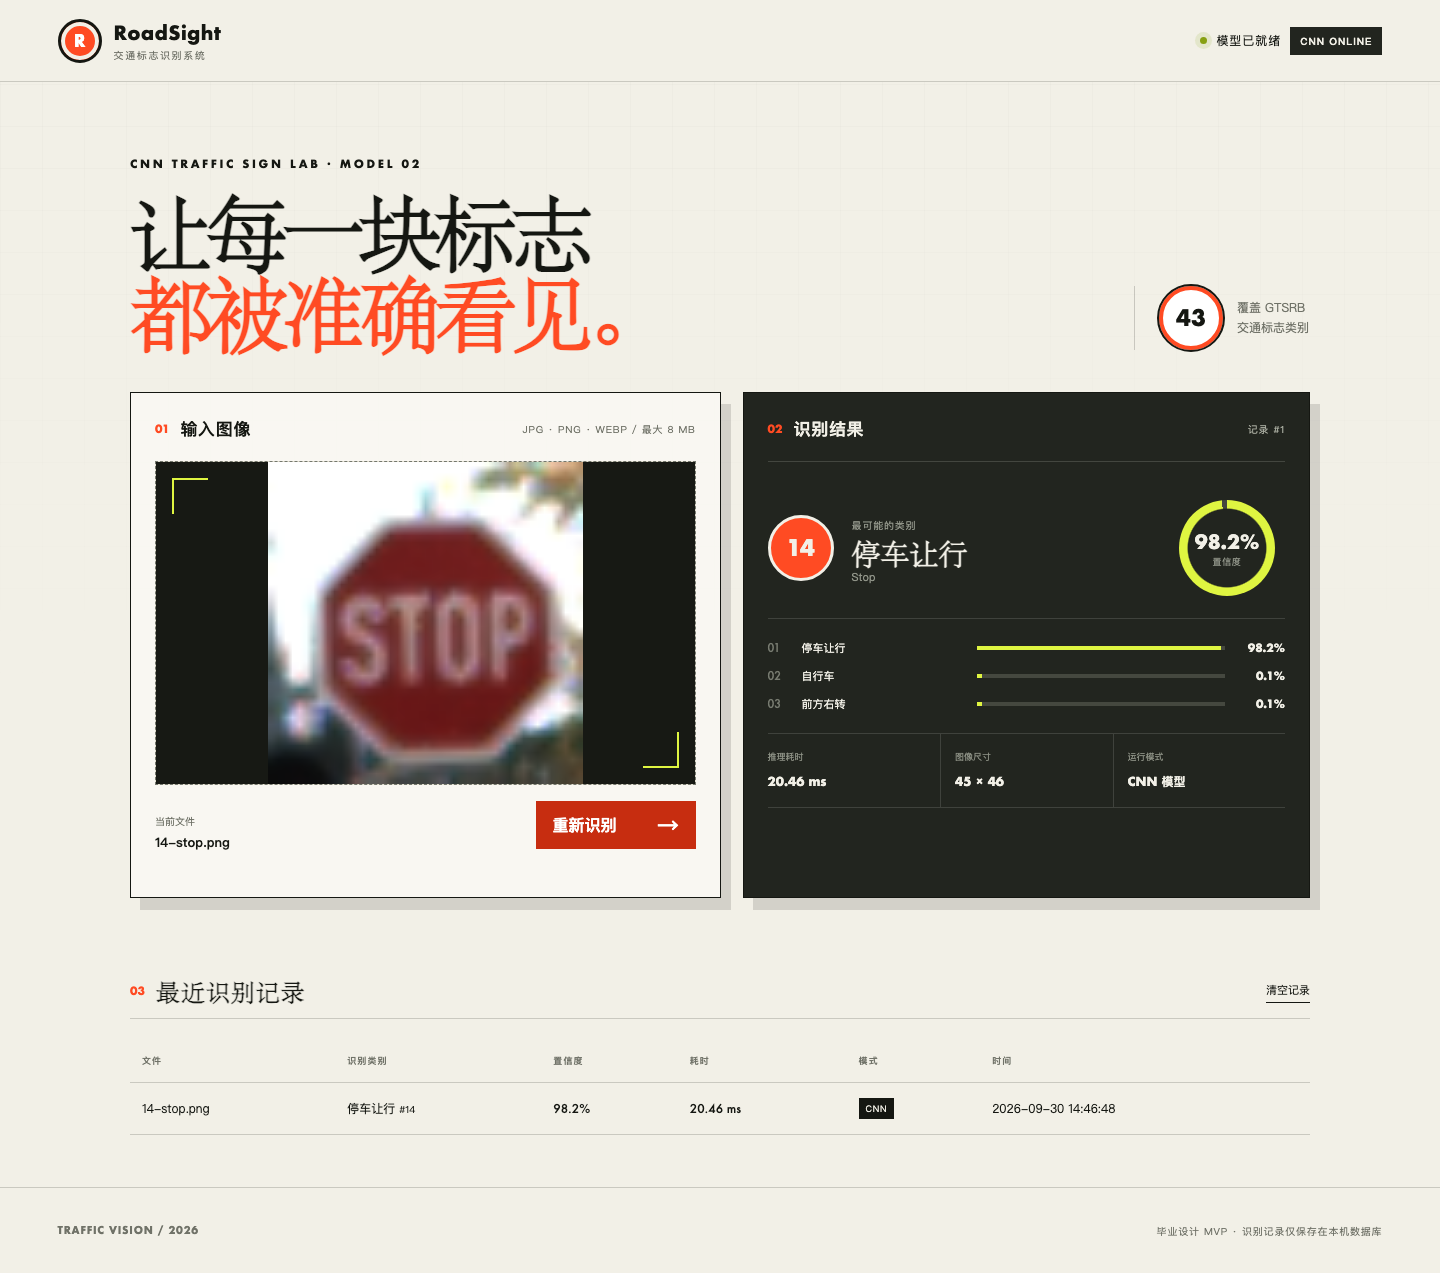
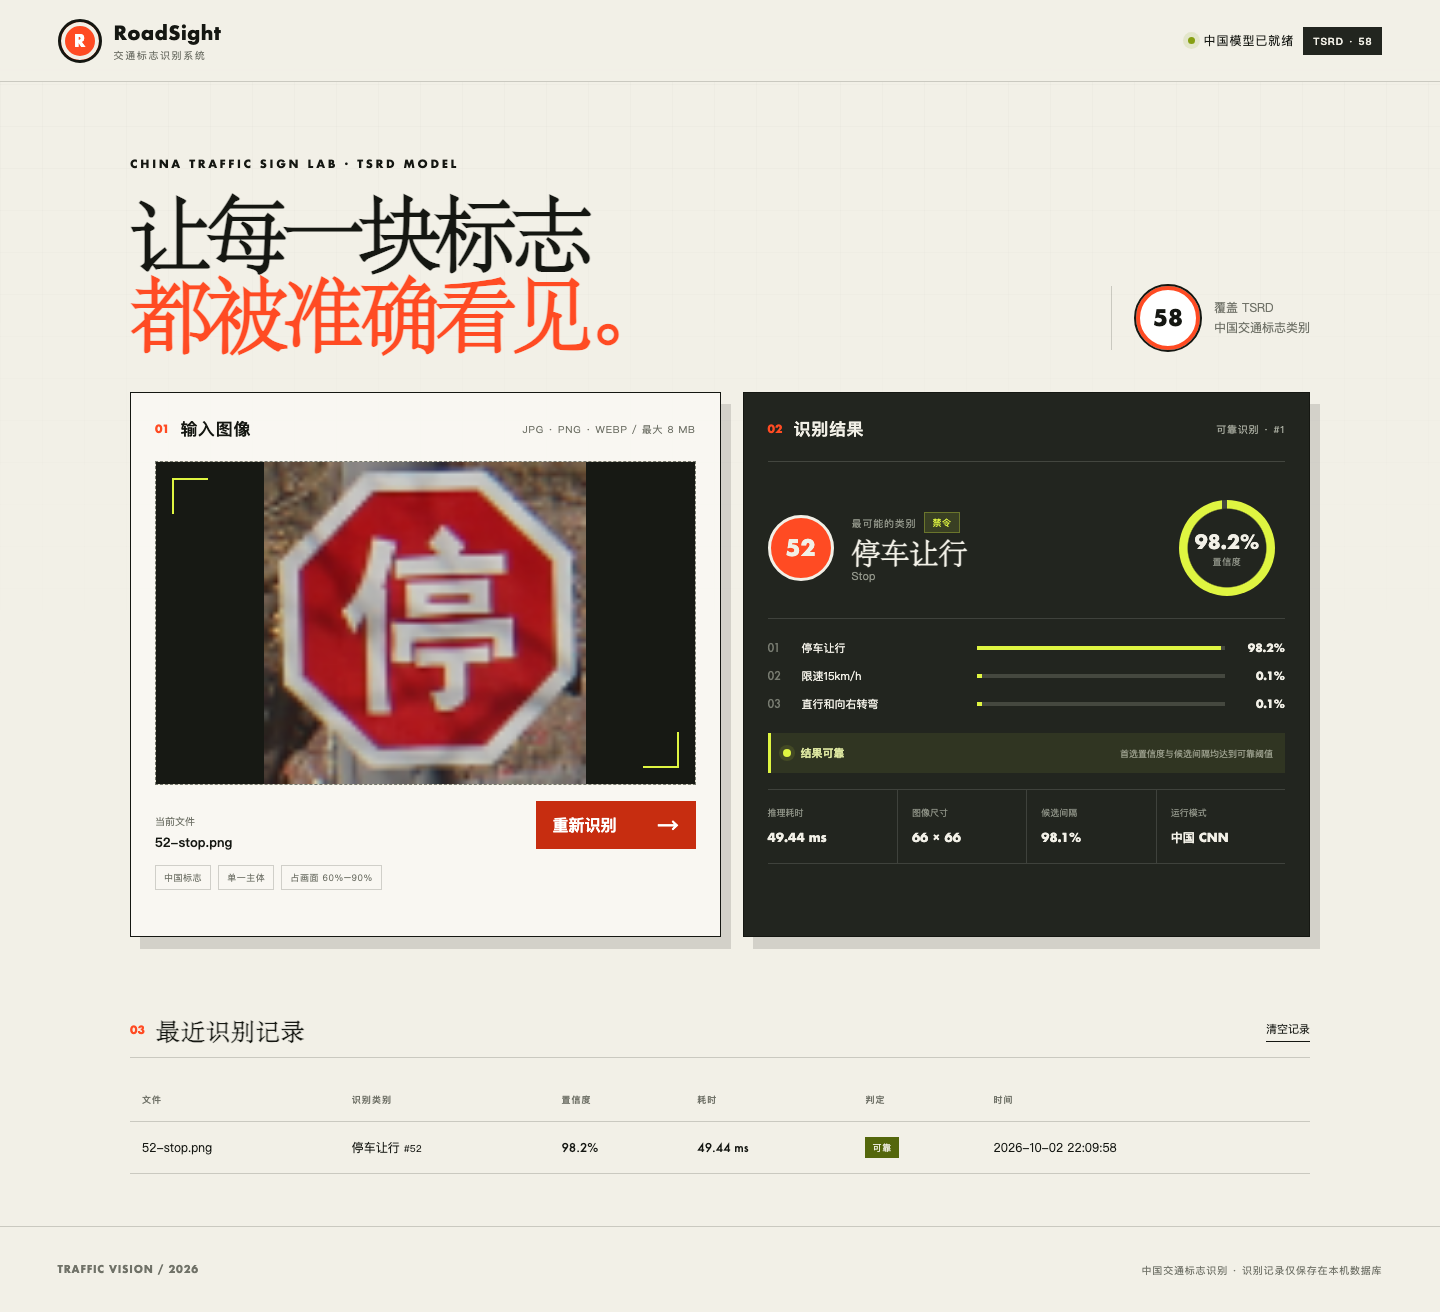
升级中国交通标志识别交互界面

diff --git a/static/styles.css b/static/styles.css
@@ -106,6 +106,8 @@ main { width: min(1180px, calc(100% - 48px)); margin: 0 auto; }
 .file-row { display: flex; align-items: flex-end; justify-content: space-between; gap: 14px; margin-top: 18px; }
 .file-row small { display: block; color: var(--muted); font-size: 10px; margin-bottom: 5px; }
 .file-row strong { display: block; max-width: 260px; overflow: hidden; text-overflow: ellipsis; white-space: nowrap; font-size: 13px; }
+.upload-tips { display: flex; flex-wrap: wrap; gap: 7px; margin-top: 14px; }
+.upload-tips span { border: 1px solid var(--line); padding: 5px 8px; color: var(--muted); font-size: 9px; letter-spacing: .06em; }
 .primary-button { border: 0; background: var(--signal); color: white; min-width: 160px; height: 48px; display: flex; align-items: center; justify-content: space-between; gap: 20px; padding: 0 17px; cursor: pointer; font-weight: 800; transition: background .2s, transform .2s; }
 .primary-button:hover:not(:disabled) { background: var(--signal-dark); transform: translateY(-2px); }
 .primary-button:disabled { opacity: .42; cursor: not-allowed; }
@@ -130,6 +132,8 @@ main { width: min(1180px, calc(100% - 48px)); margin: 0 auto; }
 .winner small { color: #92968a; font-size: 10px; letter-spacing: .08em; }
 .winner h3 { font-family: "STSong", "Songti SC", serif; font-size: 29px; margin: 4px 0 2px; }
 .winner p { margin: 0; color: #92968a; font-size: 11px; }
+.result-meta { display: flex; align-items: center; gap: 8px; }
+.result-meta span { padding: 3px 7px; background: rgba(223,245,65,.12); border: 1px solid rgba(223,245,65,.3); color: var(--acid); font-size: 9px; letter-spacing: .08em; }
 .confidence-ring { --progress: 0deg; width: 96px; height: 96px; border-radius: 50%; display: grid; place-content: center; justify-items: center; background: radial-gradient(circle, var(--asphalt) 57%, transparent 59%), conic-gradient(var(--acid) var(--progress), #44473f 0); }
 .confidence-ring strong { font-family: Futura, sans-serif; font-size: 19px; }
 .confidence-ring small { color: #92968a; font-size: 9px; }
@@ -140,7 +144,13 @@ main { width: min(1180px, calc(100% - 48px)); margin: 0 auto; }
 .bar i { display: block; height: 100%; background: var(--acid); transform-origin: left; animation: grow .7s ease both; }
 @keyframes grow { from { transform: scaleX(0); } }
 .top-item strong { text-align: right; font-family: Futura, sans-serif; font-size: 11px; }
-.metrics { display: grid; grid-template-columns: repeat(3, 1fr); border-top: 1px solid rgba(242,240,231,.14); border-bottom: 1px solid rgba(242,240,231,.14); }
+.decision-strip { display: grid; grid-template-columns: 9px auto 1fr; align-items: center; gap: 9px; padding: 12px; margin-bottom: 16px; color: #dfe9a2; background: rgba(223,245,65,.08); border-left: 3px solid var(--acid); }
+.decision-strip > span { width: 8px; height: 8px; border-radius: 50%; background: var(--acid); box-shadow: 0 0 0 4px rgba(223,245,65,.11); }
+.decision-strip strong { font-size: 11px; white-space: nowrap; }
+.decision-strip small { color: #9da18f; font-size: 9px; text-align: right; }
+.decision-strip.uncertain { color: #ffc1b3; background: rgba(255,75,35,.09); border-color: var(--signal); }
+.decision-strip.uncertain > span { background: var(--signal); box-shadow: 0 0 0 4px rgba(255,75,35,.12); }
+.metrics { display: grid; grid-template-columns: repeat(4, 1fr); border-top: 1px solid rgba(242,240,231,.14); border-bottom: 1px solid rgba(242,240,231,.14); }
 .metrics div { padding: 16px 10px 16px 0; }
 .metrics div + div { padding-left: 14px; border-left: 1px solid rgba(242,240,231,.14); }
 .metrics small { display: block; color: #8e9286; font-size: 9px; margin-bottom: 6px; }
@@ -158,6 +168,8 @@ th { font-size: 9px; color: var(--muted); letter-spacing: .12em; }
 td:nth-child(3), td:nth-child(4) { font-family: Futura, sans-serif; }
 .mode-tag { display: inline-block; padding: 4px 7px; background: var(--ink); color: var(--paper); font-size: 9px; letter-spacing: .08em; }
 .mode-tag.demo { background: var(--signal); }
+.mode-tag.accepted { background: #54670c; }
+.mode-tag.uncertain { background: var(--signal); }
 .history-empty { color: var(--muted); font-size: 12px; padding: 28px 12px; border-bottom: 1px solid var(--line); }
 
 footer { min-height: 86px; padding: 0 max(4vw, 24px); border-top: 1px solid var(--line); display: flex; align-items: center; justify-content: space-between; color: var(--muted); font-size: 10px; letter-spacing: .08em; }
@@ -184,6 +196,11 @@ footer span { font-family: Futura, sans-serif; font-weight: 800; }
   .winner { grid-template-columns: 58px 1fr; }
   .class-code { width: 56px; height: 56px; }
   .confidence-ring { grid-column: 1 / -1; justify-self: end; margin-top: -8px; }
+  .decision-strip { grid-template-columns: 9px 1fr; }
+  .decision-strip small { grid-column: 2; text-align: left; }
+  .metrics { grid-template-columns: repeat(2, 1fr); }
+  .metrics div:nth-child(3) { border-left: 0; border-top: 1px solid rgba(242,240,231,.14); }
+  .metrics div:nth-child(4) { border-top: 1px solid rgba(242,240,231,.14); }
   .top-item { grid-template-columns: 20px 1fr 44px; }
   .top-item .bar { grid-column: 2 / -1; }
   footer { align-items: flex-start; flex-direction: column; justify-content: center; gap: 7px; }

diff --git a/static/index.html b/static/index.html
@@ -3,8 +3,8 @@
   <head>
     <meta charset="UTF-8" />
     <meta name="viewport" content="width=device-width, initial-scale=1.0" />
-    <meta name="description" content="基于卷积神经网络的交通标志识别系统 MVP" />
-    <title>RoadSight · 交通标志识别系统</title>
+    <meta name="description" content="基于卷积神经网络的中国交通标志识别系统" />
+    <title>RoadSight CN · 中国交通标志识别系统</title>
     <link rel="stylesheet" href="/static/styles.css" />
   </head>
   <body>
@@ -24,12 +24,12 @@
     <main>
       <section class="hero">
         <div>
-          <p class="eyebrow">CNN TRAFFIC SIGN LAB · MODEL 02</p>
+          <p class="eyebrow">CHINA TRAFFIC SIGN LAB · TSRD MODEL</p>
           <h1>让每一块标志<br /><em>都被准确看见。</em></h1>
         </div>
         <div class="hero-note">
-          <span class="route-number">43</span>
-          <p>覆盖 GTSRB<br />交通标志类别</p>
+          <span class="route-number">58</span>
+          <p>覆盖 TSRD<br />中国交通标志类别</p>
         </div>
       </section>
 
@@ -46,8 +46,8 @@
             <span class="scan-line" aria-hidden="true"></span>
             <div class="drop-prompt" id="dropPrompt">
               <span class="sign-icon">↑</span>
-              <strong>拖入交通标志图片</strong>
-              <small>或点击选择 · 请确保单个标志主体清晰</small>
+              <strong>拖入中国交通标志图片</strong>
+              <small>或点击选择 · 单个标志、正面清晰、裁剪紧凑</small>
             </div>
           </label>
 
@@ -59,6 +59,9 @@
             <button class="primary-button" id="predictButton" disabled>
               <span>开始识别</span><b>→</b>
             </button>
+          </div>
+          <div class="upload-tips" aria-label="推荐图片条件">
+            <span>中国标志</span><span>单一主体</span><span>占画面 60%–90%</span>
           </div>
           <p class="error-message" id="errorMessage" role="alert"></p>
         </article>
@@ -78,7 +81,7 @@
             <div class="winner">
               <div class="class-code" id="classCode">00</div>
               <div>
-                <small>最可能的类别</small>
+                <div class="result-meta"><small>最可能的类别</small><span id="categoryTag">—</span></div>
                 <h3 id="className">—</h3>
                 <p id="classNameEn">—</p>
               </div>
@@ -89,9 +92,16 @@
 
             <div class="top-list" id="topList"></div>
 
+            <div class="decision-strip" id="decisionStrip">
+              <span id="decisionDot"></span>
+              <strong id="decisionLabel">等待判定</strong>
+              <small id="decisionHelp">系统将结合置信度与候选间隔判断结果是否可靠</small>
+            </div>
+
             <div class="metrics">
               <div><small>推理耗时</small><strong id="latencyValue">—</strong></div>
               <div><small>图像尺寸</small><strong id="imageSize">—</strong></div>
+              <div><small>候选间隔</small><strong id="marginValue">—</strong></div>
               <div><small>运行模式</small><strong id="resultMode">—</strong></div>
             </div>
             <p class="mode-warning" id="modeWarning" hidden></p>
@@ -106,7 +116,7 @@
         </div>
         <div class="history-table-wrap">
           <table>
-            <thead><tr><th>文件</th><th>识别类别</th><th>置信度</th><th>耗时</th><th>模式</th><th>时间</th></tr></thead>
+            <thead><tr><th>文件</th><th>识别类别</th><th>置信度</th><th>耗时</th><th>判定</th><th>时间</th></tr></thead>
             <tbody id="historyBody"></tbody>
           </table>
           <p class="history-empty" id="historyEmpty">暂无识别记录，上传第一张图片开始测试。</p>
@@ -116,7 +126,7 @@
 
     <footer>
       <span>TRAFFIC VISION / 2026</span>
-      <p>毕业设计 MVP · 识别记录仅保存在本机数据库</p>
+      <p>中国交通标志识别 · 识别记录仅保存在本机数据库</p>
     </footer>
     <script src="/static/app.js" defer></script>
   </body>

diff --git a/static/app.js b/static/app.js
@@ -69,15 +69,24 @@ function renderResult(data) {
   const confidence = data.prediction.confidence * 100;
   elements.emptyResult.hidden = true;
   elements.resultContent.hidden = false;
-  elements.resultState.textContent = `记录 #${data.record_id}`;
+  elements.resultState.textContent = `${data.recognized ? "可靠识别" : "结果待确认"} · #${data.record_id}`;
   $("#classCode").textContent = String(data.prediction.id).padStart(2, "0");
   $("#className").textContent = data.prediction.name_zh;
   $("#classNameEn").textContent = data.prediction.name_en;
+  $("#categoryTag").textContent = data.prediction.category;
   $("#confidenceValue").textContent = `${confidence.toFixed(1)}%`;
   $("#confidenceRing").style.setProperty("--progress", `${confidence * 3.6}deg`);
   $("#latencyValue").textContent = `${data.inference_ms.toFixed(2)} ms`;
   $("#imageSize").textContent = `${data.image.width} × ${data.image.height}`;
-  $("#resultMode").textContent = data.mode === "cnn" ? "CNN 模型" : "演示模式";
+  $("#marginValue").textContent = `${(data.confidence_margin * 100).toFixed(1)}%`;
+  $("#resultMode").textContent = data.mode === "cnn" ? "中国 CNN" : "演示模式";
+
+  const decisionStrip = $("#decisionStrip");
+  decisionStrip.classList.toggle("uncertain", !data.recognized);
+  $("#decisionLabel").textContent = data.recognized ? "结果可靠" : "建议重新上传";
+  $("#decisionHelp").textContent = data.recognized
+    ? "首选置信度与候选间隔均达到可靠阈值"
+    : "当前结果仅作候选参考，不建议直接作为最终结论";
 
   $("#topList").innerHTML = data.top3.map((item, index) => `
     <div class="top-item">
@@ -94,8 +103,8 @@ async function loadHealth() {
   try {
     const response = await fetch("/api/health");
     const data = await response.json();
-    elements.systemStatus.textContent = data.mode === "cnn" ? "模型已就绪" : "服务运行正常";
-    elements.modeBadge.textContent = data.mode === "cnn" ? "CNN ONLINE" : "DEMO MODE";
+    elements.systemStatus.textContent = data.mode === "cnn" ? "中国模型已就绪" : "服务运行正常";
+    elements.modeBadge.textContent = data.mode === "cnn" ? `TSRD · ${data.class_count}` : "DEMO MODE";
     elements.modeBadge.title = data.model_message || "";
   } catch {
     elements.systemStatus.textContent = "后端未连接";
@@ -113,7 +122,7 @@ async function loadHistory() {
       <td>${escapeHtml(item.name_zh)} <small>#${String(item.class_id).padStart(2, "0")}</small></td>
       <td>${(item.confidence * 100).toFixed(1)}%</td>
       <td>${item.inference_ms.toFixed(2)} ms</td>
-      <td><span class="mode-tag ${item.mode}">${item.mode === "cnn" ? "CNN" : "DEMO"}</span></td>
+      <td><span class="mode-tag ${item.recognized ? "accepted" : "uncertain"}">${item.recognized ? "可靠" : "待确认"}</span></td>
       <td>${escapeHtml(item.created_at)}</td>
     </tr>`).join("");
 }

diff --git a/tests/browser_smoke.py b/tests/browser_smoke.py
@@ -30,7 +30,7 @@ with sync_playwright() as playwright:
 
     page.goto("http://127.0.0.1:8000", wait_until="networkidle")
     mode_badge = page.locator("#modeBadge").inner_text()
-    assert mode_badge in {"DEMO MODE", "CNN ONLINE"}
+    assert mode_badge in {"DEMO MODE", "TSRD · 58"}
     assert page.locator("h1").is_visible()
 
     page.locator("#fileInput").set_input_files(
@@ -41,10 +41,10 @@ with sync_playwright() as playwright:
     page.locator("#historyBody tr").first.wait_for(state="visible")
 
     assert page.locator("#className").inner_text() != "—"
-    if mode_badge == "CNN ONLINE":
+    if mode_badge == "TSRD · 58":
         assert "CNN" in page.locator("#resultMode").inner_text()
         if page.locator("#modeWarning").is_visible():
-            assert "置信度较低" in page.locator("#modeWarning").inner_text()
+            assert "无法可靠确认" in page.locator("#modeWarning").inner_text()
     else:
         assert "演示模式" in page.locator("#resultMode").inner_text()
         assert page.locator("#modeWarning").is_visible()

diff --git a/scripts/capture_preview.py b/scripts/capture_preview.py
@@ -1,4 +1,4 @@
-"""Capture a deterministic README screenshot with a real GTSRB sample."""
+"""Capture a deterministic README screenshot with a real Chinese TSRD sample."""
 
 from pathlib import Path
 
@@ -11,7 +11,7 @@ with sync_playwright() as playwright:
     browser = playwright.chromium.launch(headless=True)
     page = browser.new_page(viewport={"width": 1440, "height": 960}, device_scale_factor=1)
     page.goto("http://127.0.0.1:8000", wait_until="networkidle")
-    page.locator("#fileInput").set_input_files(ROOT / "sample_images/14-stop.png")
+    page.locator("#fileInput").set_input_files(ROOT / "sample_images/52-stop.png")
     page.locator("#predictButton").click()
     page.locator("#resultContent").wait_for(state="visible")
     page.wait_for_timeout(700)
@@ -19,4 +19,3 @@ with sync_playwright() as playwright:
     browser.close()
 
 print("Saved docs/system-preview.png")
-
